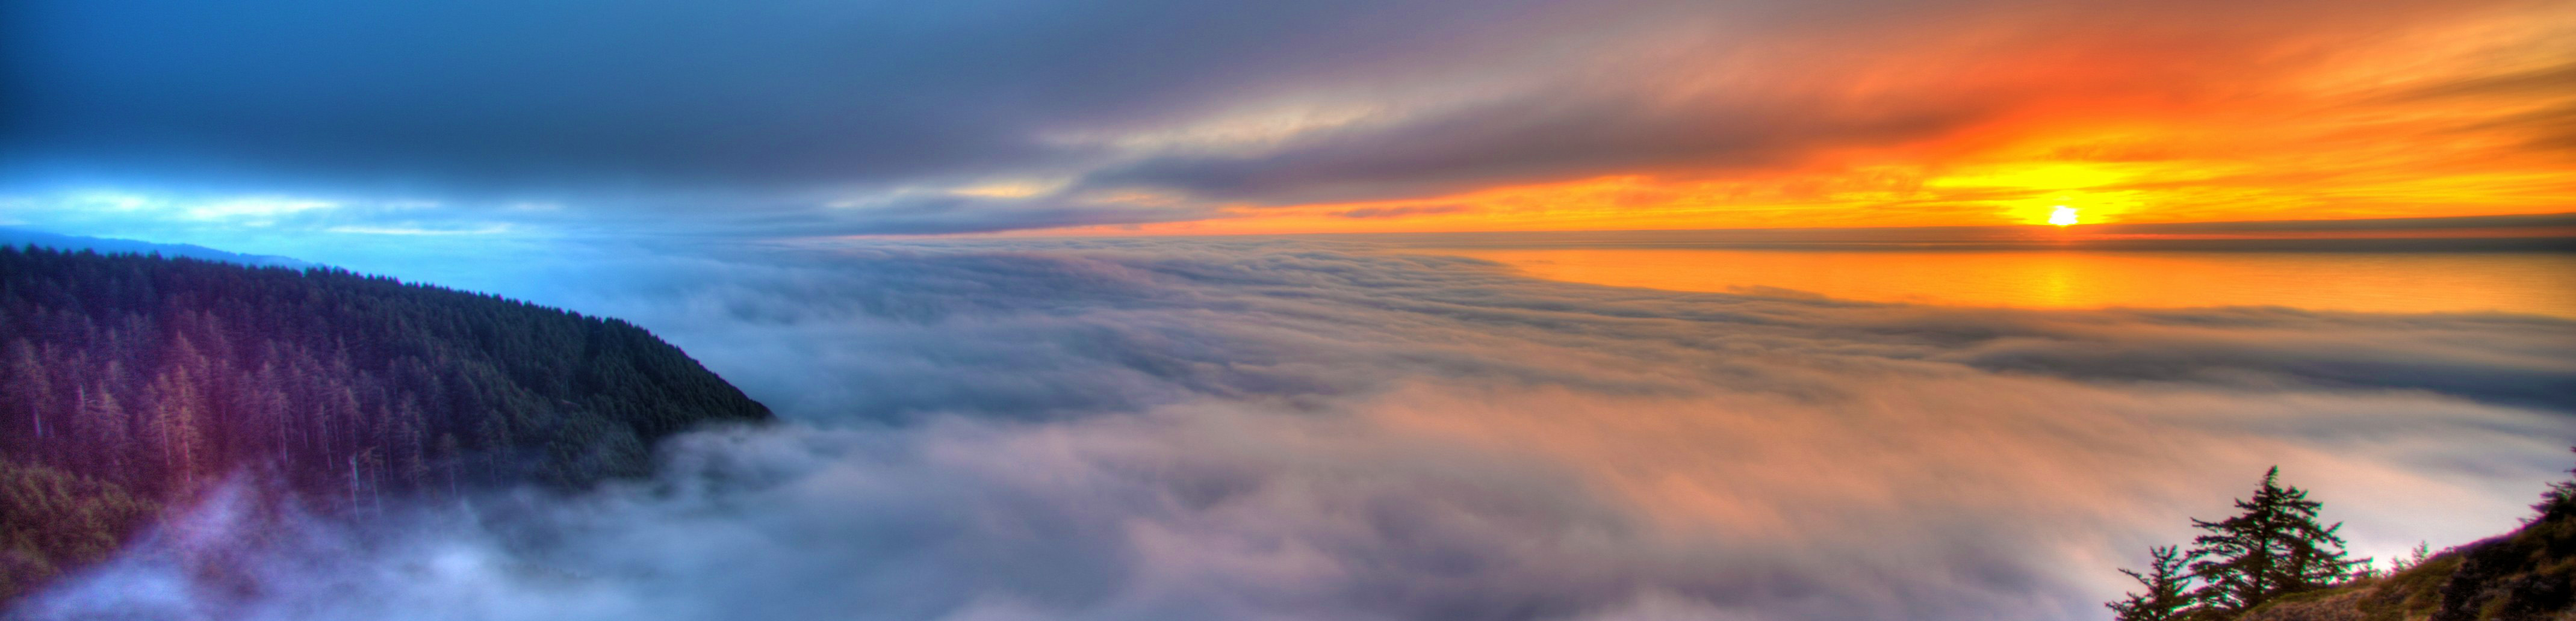
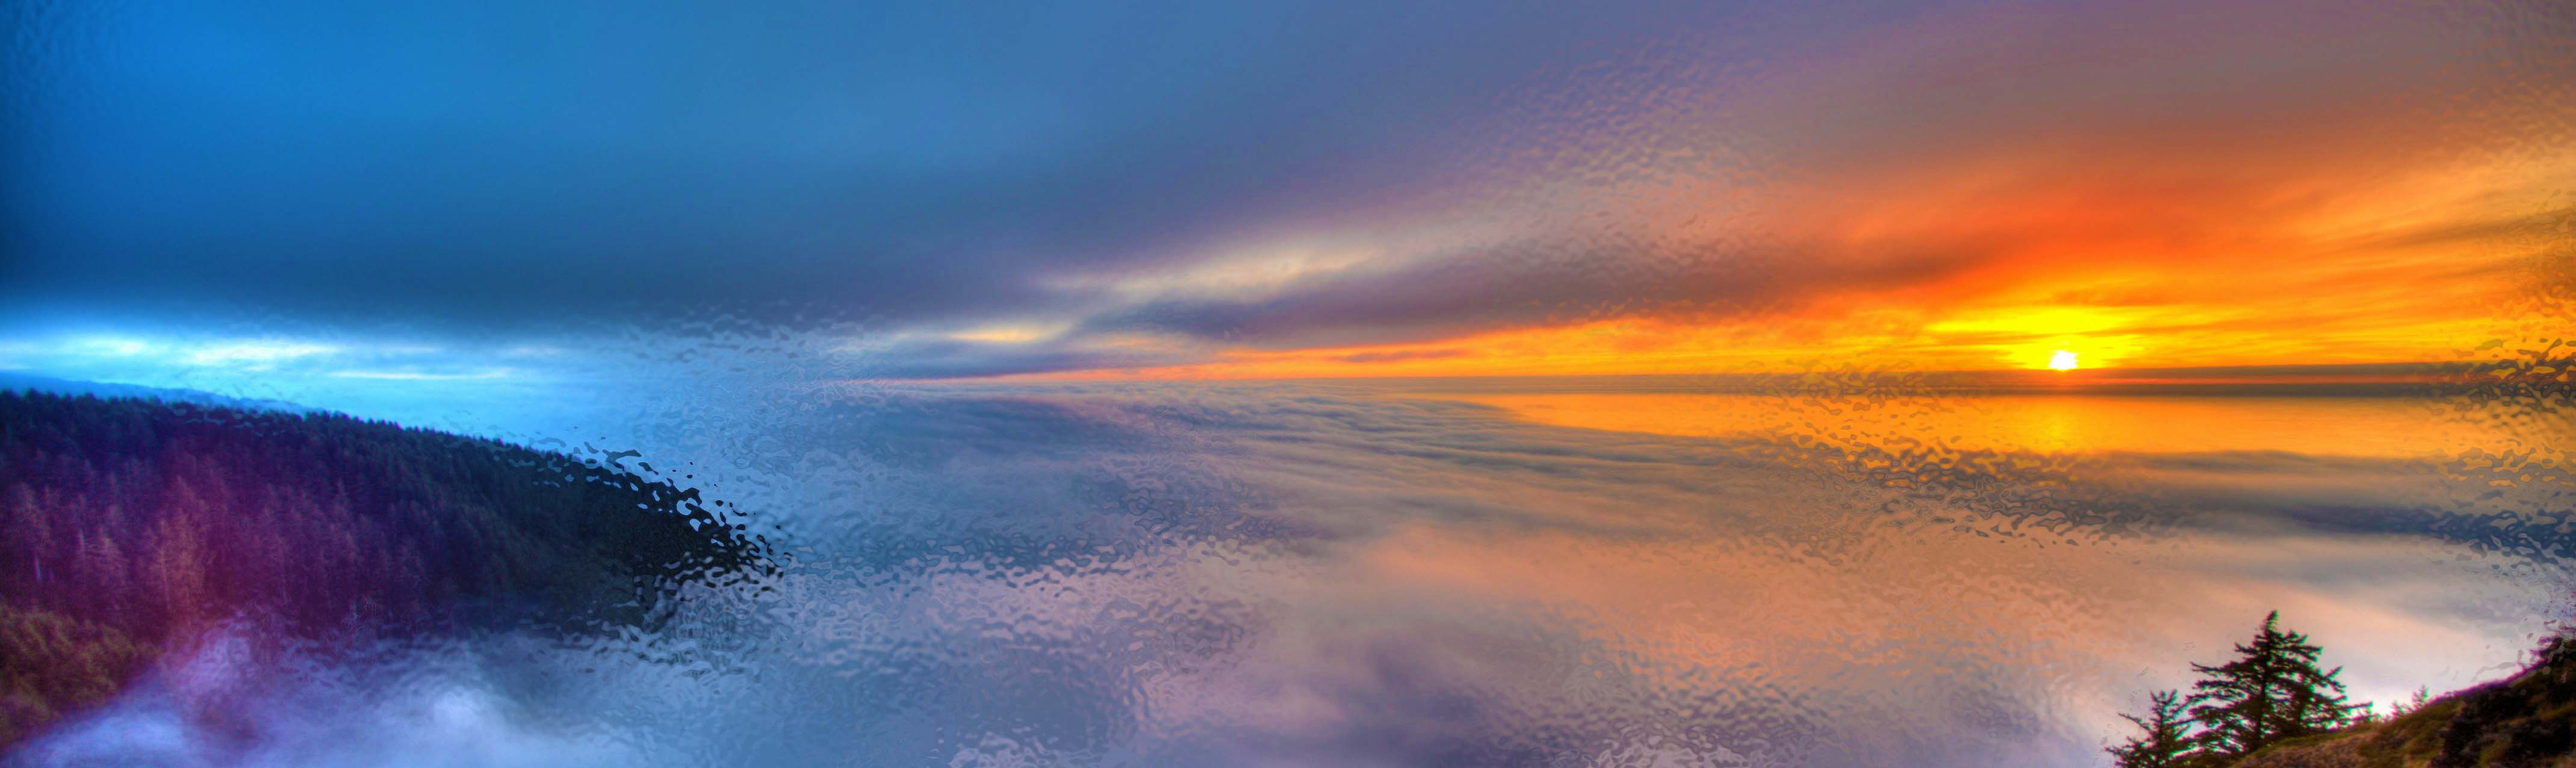
Replaced bg image and added line break elements to right bar

diff --git a/weather-app/src/components/Rightbar.jsx b/weather-app/src/components/Rightbar.jsx
@@ -10,7 +10,7 @@ export function Rightbar() {
   const navStyle = ({ isActive }) => {
     return (
       isActive
-        ? "text-yellow-400 font-thin underline"
+        ? "text-yellow-400 font-thin"
         : "text-olive-50 font-thin"
     );
   }
@@ -23,12 +23,15 @@ export function Rightbar() {
         <NavLink to="/" className={navStyle}>
           Home
         </NavLink>
+        <div className="flex w-[35vw] h-[1px] opacity-40 bg-white -m-5" />
         <NavLink to="/blog-page" className={navStyle}>
           Blog
         </NavLink>
+        <div className="flex w-[35vw] h-[1px] opacity-40 bg-white -m-5" />
         <NavLink to="/search-page" className={navStyle}>
           Search
         </NavLink>
+        <div className="flex w-[35vw] h-[1px] opacity-40 bg-white -m-5" />
         <img src="toggle-on-icon.svg" className="w-8" onClick={toggleTheme} />
       </nav>
     </>

diff --git a/weather-app/src/index.css b/weather-app/src/index.css
@@ -3,3 +3,22 @@
 html {
   font-family: "Space Grotesk";
 }
+/* Chrome, Edge, Safari SCROLLBAR STYLNG*/
+::-webkit-scrollbar {
+  width: 6px;
+}
+
+::-webkit-scrollbar-thumb {
+  background: rgba(255, 255, 255, 0.3);
+  border-radius: 9999px;
+}
+
+::-webkit-scrollbar-thumb:hover {
+  background: rgba(255, 255, 255, 0.6);
+}
+
+/* Firefox */
+html {
+  scrollbar-width: thin;
+  scrollbar-color: rgba(255,255,255,0.3) transparent;
+}
